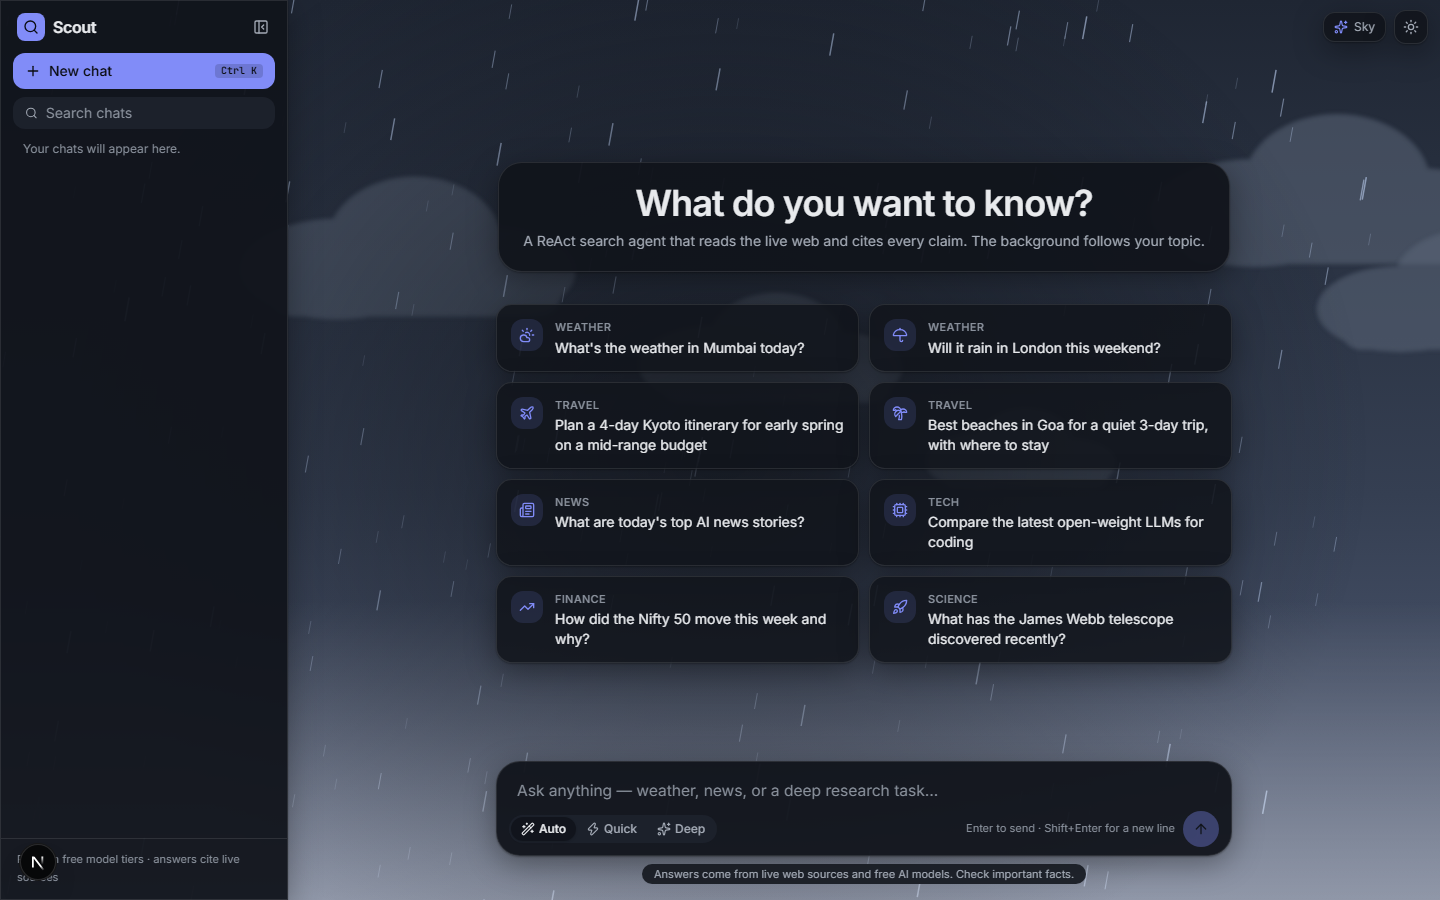
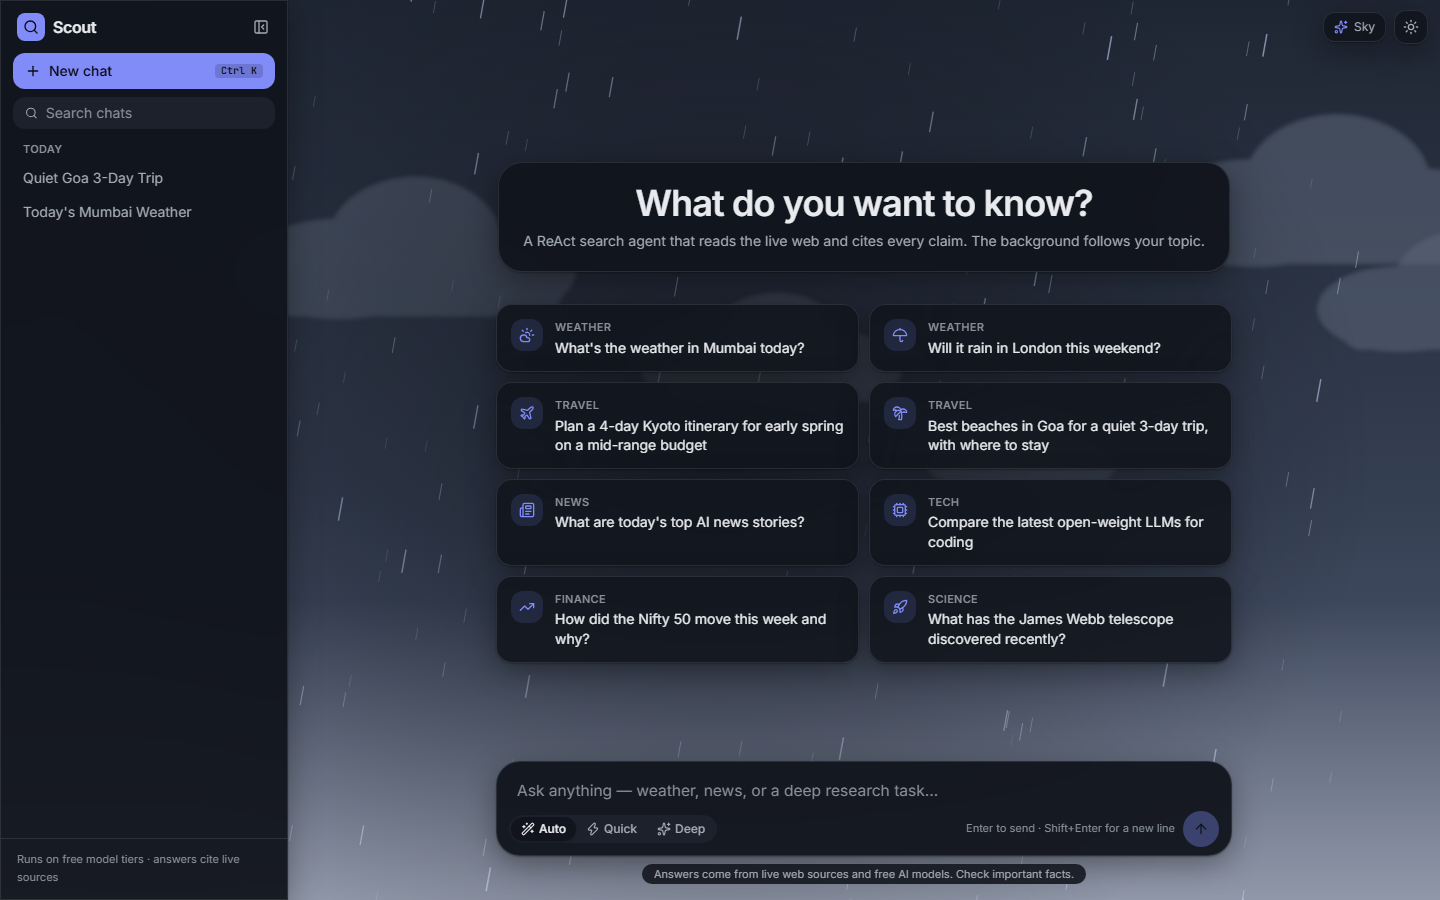
polish: real screenshots in README, stopped-step state, deduped domain chips, no dev badge

diff --git a/frontend/src/components/chat/Timeline.tsx b/frontend/src/components/chat/Timeline.tsx
@@ -67,12 +67,12 @@ export function Timeline({ steps, plan, streaming }: { steps: Step[]; plan?: Tod
                       <div className="flex flex-wrap items-center gap-x-2 gap-y-1 leading-snug">
                         <span>{stepText(s)}</span>
                         {s.kind === "fetch" && s.url && <Favicon domain={new URL(s.url).hostname} size={14} />}
-                        {s.status === "failed" && <span className="text-xs text-bad">{s.detail || "failed"} — trying other sources</span>}
+                        {s.status === "failed" && <span className="text-xs text-bad">{s.detail?.startsWith("stopped") ? s.detail : `${s.detail || "failed"} — trying other sources`}</span>}
                         {s.status === "done" && s.tier && s.kind === "fetch" && <span className="rounded bg-surface-hover px-1.5 text-[10px] uppercase tracking-wide text-subtle">{s.tier.replace(" (cached)", " · cached")}</span>}
                       </div>
                       {s.domains && s.domains.length > 0 && (
                         <div className="mt-1 flex flex-wrap gap-1.5">
-                          {s.domains.map((d) => (
+                          {[...new Set(s.domains)].map((d) => (
                             <span key={d} className="inline-flex items-center gap-1 rounded-full bg-surface-hover px-2 py-0.5 text-[11px]"><Favicon domain={d} size={12} />{d}</span>
                           ))}
                         </div>

diff --git a/frontend/src/components/chat/Message.tsx b/frontend/src/components/chat/Message.tsx
@@ -89,7 +89,7 @@ export function AssistantMessage({ m, last }: { m: ChatMessage; last: boolean })
               {last && <button onClick={() => regenerate()} disabled={streaming} className="rounded-lg p-1.5 hover:bg-surface-hover hover:text-fg disabled:opacity-40" aria-label="Regenerate"><RefreshCw className="h-4 w-4" /></button>}
               {m.meta.usage && (
                 <span className="ml-auto text-[11px] text-subtle">
-                  {m.meta.usage.searches} searches · {m.meta.usage.fetches} pages · {m.meta.usage.seconds}s
+                  {m.meta.usage.searches} {m.meta.usage.searches === 1 ? "search" : "searches"} · {m.meta.usage.fetches} {m.meta.usage.fetches === 1 ? "page" : "pages"} read · {m.meta.usage.seconds}s
                 </span>
               )}
             </div>

diff --git a/frontend/src/store/chat.ts b/frontend/src/store/chat.ts
@@ -170,7 +170,11 @@ export const useChat = create<ChatState>((set, get) => ({
             ...m,
             content: data.answer || m.content,
             streaming: false,
-            meta: { ...m.meta, sources: data.sources, all_sources: data.all_sources, widgets: data.widgets, route: data.route, usage: data.usage },
+            meta: {
+              ...m.meta, sources: data.sources, all_sources: data.all_sources, widgets: data.widgets, route: data.route, usage: data.usage,
+              // steps still "running" were cut off by the research time budget
+              steps: (m.meta.steps || []).map((st) => (st.status === "running" ? { ...st, status: "failed", detail: "stopped (time budget)" } : st)),
+            },
           }));
           break;
       }

diff --git a/frontend/next.config.ts b/frontend/next.config.ts
@@ -1,7 +1,7 @@
 import type { NextConfig } from "next";
 
 const nextConfig: NextConfig = {
-  /* config options here */
+  devIndicators: false,
   cacheComponents: true,
   partialPrefetching: true,
   turbopack: {

diff --git a/backend/app/tools/agent_tools.py b/backend/app/tools/agent_tools.py
@@ -43,7 +43,7 @@ async def web_search(
     sid = run.step("search", query, recency_days=recency_days)
     hits, provider = await search(query, n=max(3, min(max_results, 10)), recency_days=recency_days)
     run.step_update(sid, "done" if hits else "failed", provider=provider, count=len(hits),
-                    domains=[domain_of(h["url"]) for h in hits[:5]])
+                    domains=list(dict.fromkeys(domain_of(h["url"]) for h in hits))[:5])
     if not hits:
         return "No results. Try different wording, a broader query, or drop the date filter."
     return f"Results for {query!r} via {provider}:\n" + _format_hits(hits, "web")
@@ -61,7 +61,7 @@ async def news_search(
     sid = run.step("news", topic, recency_days=recency_days)
     hits, provider = await search(topic, n=max(3, min(max_results, 10)), recency_days=recency_days, news=True)
     run.step_update(sid, "done" if hits else "failed", provider=provider, count=len(hits),
-                    domains=[domain_of(h["url"]) for h in hits[:5]])
+                    domains=list(dict.fromkeys(domain_of(h["url"]) for h in hits))[:5])
     if not hits:
         return "No recent news found. Try a broader topic or a longer time window."
     if len(hits) >= 3:

diff --git a/backend/app/main.py b/backend/app/main.py
@@ -147,7 +147,9 @@ async def chat(body: ChatIn, request: Request, x_client_id: str | None = Header(
                 followups = data["items"]
             elif name == "done":
                 route = data.get("route") or {}
-                meta = {**data, "steps": list(steps.values()), "plan": plan, "follow_ups": followups}
+                done_steps = [{**st, "status": "failed", "detail": "stopped (time budget)"} if st.get("status") == "running" else st
+                              for st in steps.values()]
+                meta = {**data, "steps": done_steps, "plan": plan, "follow_ups": followups}
                 meta.pop("answer", None)
                 await db.add_message(thread_id, "assistant", data.get("answer", ""), meta)
                 await db.update_thread(owner, thread_id, title=data.get("title"), scene=route.get("scene"))

diff --git a/README.md b/README.md
@@ -9,7 +9,12 @@ astronomy, a sunset beach for Goa. The text stays perfectly readable on top.
 
 It runs entirely on **free** model and search tiers (Groq, Gemini, NVIDIA NIM, Mistral, OpenRouter, DuckDuckGo).
 
-![Scout: beach scene](docs/screenshots/scene-beach-dark.png)
+| Deep research: *quiet Goa beaches, 3 days* | Live weather: night over Mumbai |
+|---|---|
+| ![Deep research answer with citations on the beach scene](docs/screenshots/goa-deep-research.png) | ![Weather answer with live widget on a night-sky scene](docs/screenshots/mumbai-weather-night.png) |
+| ![Empty state with suggestion cards on the sunset beach scene](docs/screenshots/scene-beach-dark.png) | ![Rainstorm scene with readable glass surfaces](docs/screenshots/scene-storm-dark.png) |
+
+*These are real runs on free tiers. The scene follows the topic and the data: rain, snow, storm, fog, and day or night at the queried place.*
 
 ## What's interesting
 
